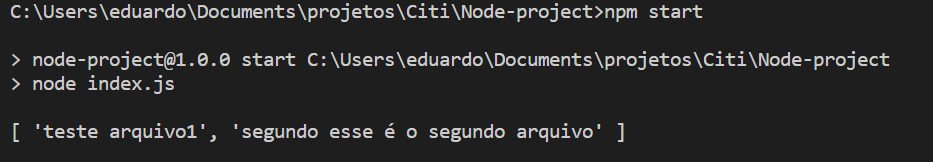
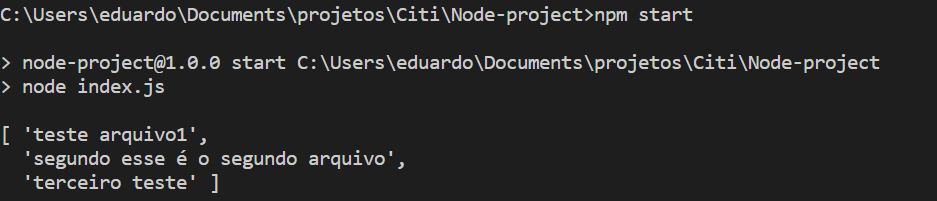
Novas imagens das promessas

diff --git a/index.js b/index.js
@@ -13,8 +13,9 @@ function read (file) {
 
 Promise.all([
     read('file.txt'),
+    read('file2.txt'),
     read('file3.txt'),
-    read('file2.txt')    
+    read('arquivoInexistente.txt')    
 ])
 .then((data) => console.log(data))
 .catch((err) => console.log(err))
